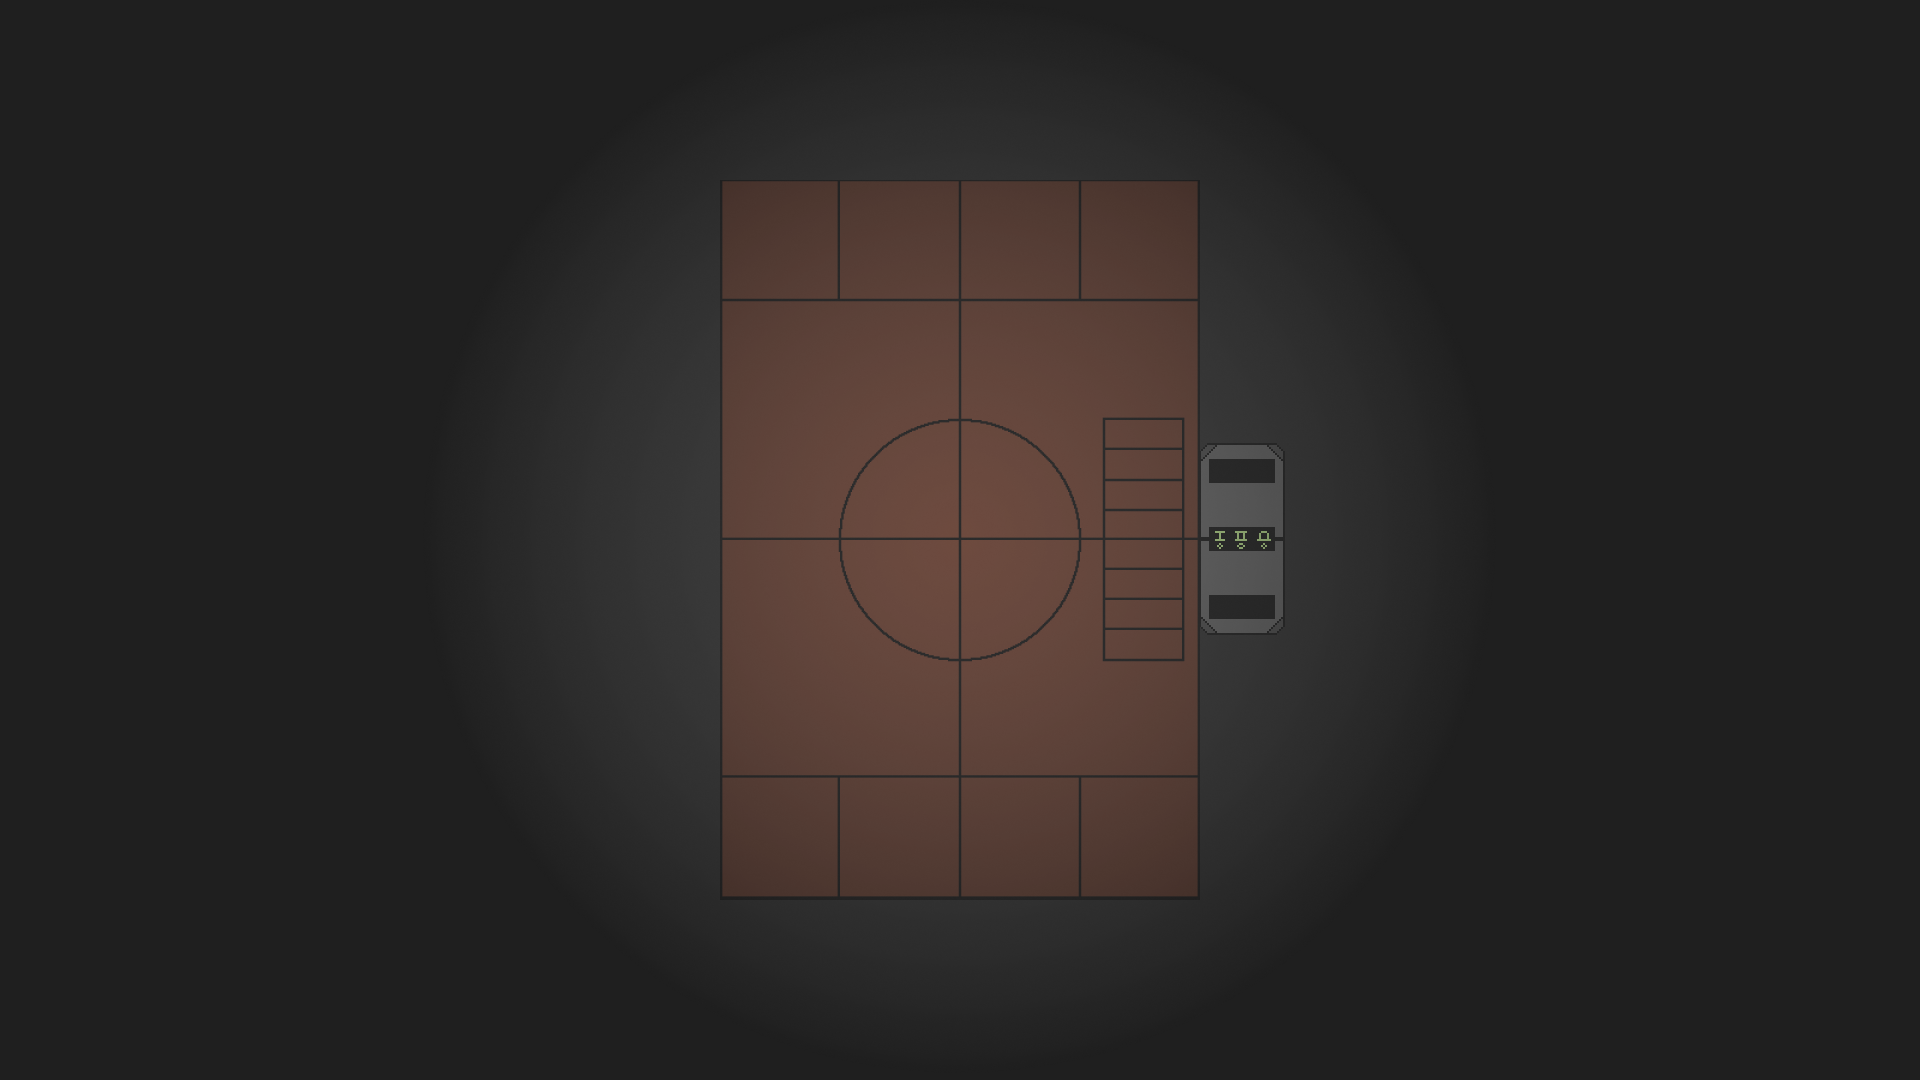
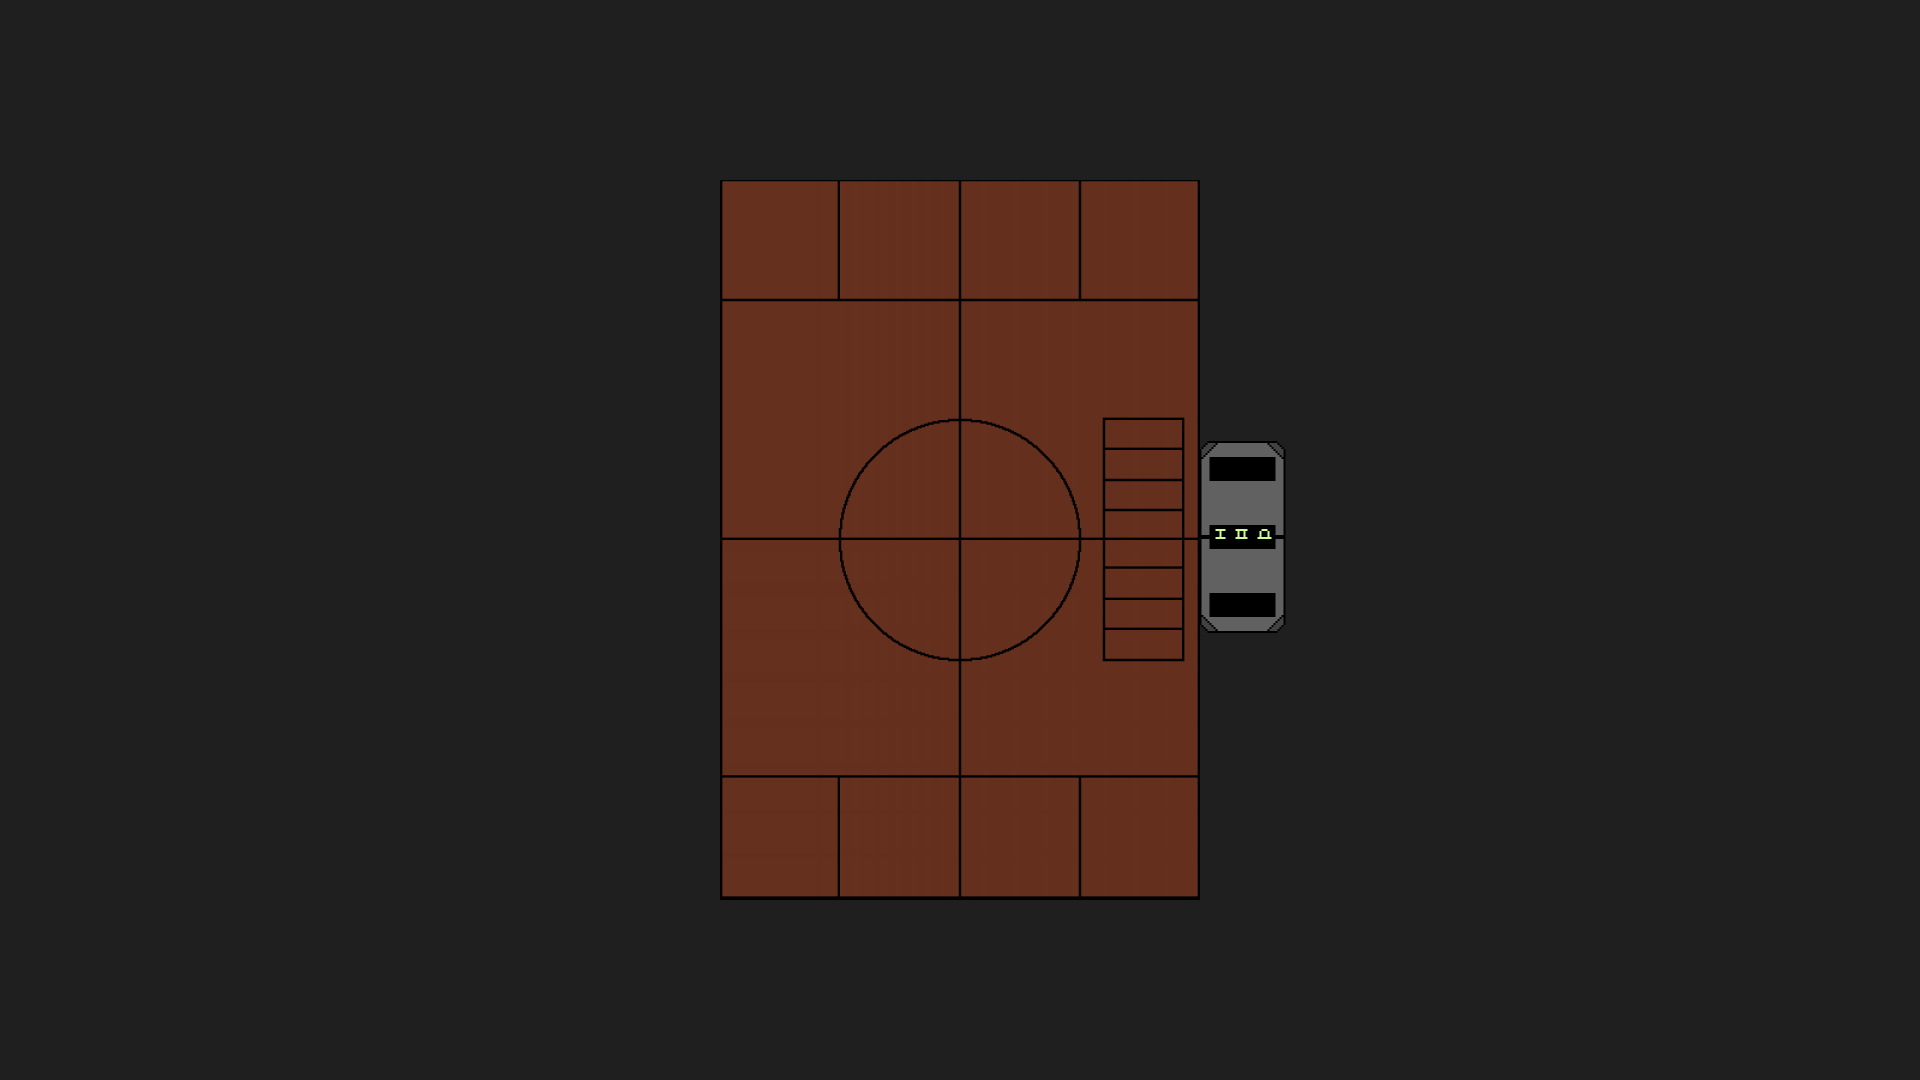
1128

diff --git a/main.py b/main.py
@@ -1,5 +1,5 @@
 import pygame
-import random
+import random,time
 from fn import round_start, Use_itme, shoot, reset_shell
 from fn import gun, player, dealer, game
 
@@ -12,6 +12,12 @@ round_start()
 background = pygame.image.load("./image/back.png")
 # 총 (45)
 gun_45 = pygame.image.load("./image/gun/gun45.png")
+saw_gun = pygame.image.load("./image/gun/sawed.png")
+saw_gun = pygame.transform.scale(saw_gun, (gun_45.get_width() ,gun_45.get_height()))
+
+# 총 (90)
+gun_90 = pygame.image.load("./image/gun/gun90.png")
+
 #아이템
 tmp_img = pygame.image.load("./image/item/tmp.png")
 doll = pygame.image.load("./image/item/doll.png")
@@ -33,6 +39,8 @@ font = pygame.font.Font("./fonts/PretendardVariable.ttf", 36)
 Text_Dealer = font.render("Dealer", True, (255,255,255))
 Text_Player = font.render("Player", True, (255,255,255))
 
+light = pygame.image.load("./image/light.png")
+
 #글자
 dot = pygame.image.load("./image/dot.png")
 
@@ -52,14 +60,16 @@ heart_pos_dealer = [(1209,460),(1225,460),(1241,460),(1257,460)]
 #endregion
 
 #region click_zone 설정
-click_zone_1 = pygame.Rect(720, 770, tmp_img.get_width(), tmp_img.get_height())
-click_zone_2 = pygame.Rect(840, 770, tmp_img.get_width(), tmp_img.get_height())
-click_zone_3 = pygame.Rect(960, 770, tmp_img.get_width(), tmp_img.get_height())
-click_zone_4 = pygame.Rect(1080,770, tmp_img.get_width(), tmp_img.get_height())
-click_zone_5 = pygame.Rect(720, 180, tmp_img.get_width(), tmp_img.get_height())
-click_zone_6 = pygame.Rect(840, 180, tmp_img.get_width(), tmp_img.get_height())
-click_zone_7 = pygame.Rect(960, 180, tmp_img.get_width(), tmp_img.get_height())
-click_zone_8 = pygame.Rect(1080,180, tmp_img.get_width(), tmp_img.get_height())
+Tmp_width =  tmp_img.get_width()
+Tmp_height =  tmp_img.get_height()
+click_zone_1 = pygame.Rect(720, 770, Tmp_width, Tmp_height)
+click_zone_2 = pygame.Rect(840, 770, Tmp_width, Tmp_height)
+click_zone_3 = pygame.Rect(960, 770, Tmp_width, Tmp_height)
+click_zone_4 = pygame.Rect(1080,770, Tmp_width, Tmp_height)
+click_zone_5 = pygame.Rect(720, 180, Tmp_width, Tmp_height)
+click_zone_6 = pygame.Rect(840, 180, Tmp_width, Tmp_height)
+click_zone_7 = pygame.Rect(960, 180, Tmp_width, Tmp_height)
+click_zone_8 = pygame.Rect(1080,180, Tmp_width, Tmp_height)
 
 click_zone_gun = pygame.Rect(625, 180,gun_45.get_width(), gun_45.get_height())
 
@@ -73,11 +83,16 @@ click_zone_dealerText = pygame.Rect(907,680, Text_Player.get_width(), Text_Playe
 running = True
 shoot_ready = False
 gift_ready = False
-round_dot = [(1219,545)]
+
+move_gun = True
+
+round_dot = [(1219,543),(1239,543),(1262,543)]
+
 Items_di = {" ":tmp_img, "doll":doll, "gift":gift, "glasses":glasses, "jusagi":jusagi, "pill":pill, "saw":saw, "smoke":smoke}
 items_name = list(Items_di.keys())
-screen_width, screen_height = 1920, 1080 
 
+screen_width, screen_height = 1920, 1080 
+gun_angle = 0
 
 screen = pygame.display.set_mode((screen_width, screen_height))
 
@@ -92,16 +107,35 @@ dealer.item[2] = items_name[random.randint(1,len(items_name)-1)]
 dealer.item[3] = items_name[random.randint(1,len(items_name)-1)]
 
 # 메인 루프
+clock = pygame.time.Clock()
+
+
 while running:
-    # 배경 그리기
+
     screen.blit(background, (0, 0))
-    screen.blit(gun_45, (625, 180))
 
     # 이벤트 get
     for event in pygame.event.get():
         if event.type == pygame.QUIT:
             running = False
             break
+
+        elif event.type == pygame.KEYDOWN:
+            match(event.key):
+                case pygame.K_F1:
+                    player.item[0] = items_name[0]
+                    player.item[1] = items_name[1]
+                    player.item[2] = items_name[2]
+                    player.item[3] = items_name[3]
+                case pygame.K_F2:
+                    player.item[0] = items_name[4]
+                    player.item[1] = items_name[5]
+                    player.item[2] = items_name[6]
+                    player.item[3] = items_name[7]       
+                case pygame.K_r:
+                    game.round += 1             
+                    game.round %= 3
+
 
         if event.type != pygame.MOUSEBUTTONDOWN:
             continue
@@ -120,7 +154,7 @@ while running:
             else:
                 print("None")
 
-        elif game.isPlayerTurn:
+        elif game.isPlayerTurn or not game.isPlayerTurn:
             if click_zone_1.collidepoint(event.pos):
                 Use_itme(player,0)
                 print("0번 아이템 사용")
@@ -160,6 +194,7 @@ while running:
         screen.blit(Text_Player, (907,680))
     #endregion
 
+    
     if gift_ready:
         pass
         # screen.blit()
@@ -192,12 +227,38 @@ while running:
 
     #endregion
 
+    #region 총 애니메이션
+    angle = 0
+    if shoot_ready:
+        print("gun_angle : ",gun_angle)
+        if move_gun:
+            print("1234")
+            gun_angle-=1
+            rotated_image = pygame.transform.rotate(gun_45, gun_angle)
+            screen.blit(rotated_image, rotated_image.get_rect(center=gun_45.get_rect(topleft=gun_pos).center).topleft)
+        else:
+            screen.blit(gun_90,gun_pos)
+
+        if gun_angle < -45:
+            move_gun = False
+    else:
+        screen.blit(saw_gun if gun.saw else gun_45 , (625, 180))
+
+
+    #endregion
+
+
     if not gun.shell:
         reset_shell()
     
     if player.hp <= 0 or dealer.hp <= 0:
         round_start()
 
+    # 배경 그리기
+    screen.blit(light, (screen_width//2 - 700, 0))
+
+
+    clock.tick(300)
     pygame.display.update() # 화면 업데이트
 
 pygame.quit()   

diff --git a/fn.py b/fn.py
@@ -1,4 +1,4 @@
-import random
+import pygame,random, time
 
 class Character:
     def __init__(self):
@@ -8,8 +8,6 @@ class Character:
         self.hp = 4
         self.issugap = False
         self.adrenaline = False
-
-
 
 class Shotgun:
     def __init__(self):
@@ -33,9 +31,45 @@ game = GameSetting()
 player.Name="Player"
 dealer.Name="Dealer"
 
-Items_di = ["doll", "gift", "glasses", "jusagi", "pill", "saw", "smoke"]
 round = -1
 
+image ={
+
+    background = pygame.image.load("./image/back.png")
+    # 총 (45)
+    gun_45 = pygame.image.load("./image/gun/gun45.png")
+    saw_gun = pygame.image.load("./image/gun/sawed.png")
+    saw_gun = pygame.transform.scale(saw_gun, (gun_45.get_width() ,gun_45.get_height()))
+
+    # 총 (90)
+    gun_90 = pygame.image.load("./image/gun/gun90.png")
+
+    #아이템
+    tmp_img = pygame.image.load("./image/item/tmp.png")
+    doll = pygame.image.load("./image/item/doll.png")
+    gift = pygame.image.load("./image/item/gift.png")
+    glasses = pygame.image.load("./image/item/glasses.png")
+    jusagi = pygame.image.load("./image/item/jusagi.png")
+    pill = pygame.image.load("./image/item/pill.png")
+    saw = pygame.image.load("./image/item/saw.png")
+    smoke = pygame.image.load("./image/item/smoke.png")
+    #하트
+    heart = pygame.image.load("./image/heart/heart1.png")
+    heart_break = pygame.image.load("./image/heart/heart0.png")
+    #탄약
+    real = pygame.image.load("./image/shell/real.png")
+    fake = pygame.image.load("./image/shell/fake.png")
+
+    #글자
+    font = pygame.font.Font("./fonts/PretendardVariable.ttf", 36)
+    Text_Dealer = font.render("Dealer", True, (255,255,255))
+    Text_Player : font.render("Player", True, (255,255,255))
+
+    light : pygame.image.load("./image/light.png")
+
+    #글자
+    "dot" : pygame.image.load("./image/dot.png")
+}
 
 def round_start():
 
@@ -58,7 +92,7 @@ def reset_shell():
     gun.shell = []
 
     #shell 갯수,실탄,공탄 갯수 랜덤 설정
-    num_shell = random.randint(2,8)
+    num_shell= random.randint(2,8)
     num_real = random.randint(1,num_shell-1)
     num_fake = num_shell - num_real
  
@@ -120,7 +154,7 @@ def gift(character:Character,slot:int):
     # character.item[slot] = [Items_a_di]
 
 def glasses(character:Character,slot:int):
-    print(gun.shell[1])
+    print(gun.shell[-1])
 
 def jusagi(character:Character,slot:int):
     if (player.adrenaline or dealer.adrenaline):
@@ -157,6 +191,7 @@ def shoot(character:Character):
     if not((character.Name == "Player" and turn) or (character.Name == "Dealer" and not turn)):
         game.isPlayerTurn = 0 if turn else 1
 
+    gun.saw = False
     
     gun.shell.pop()
     
